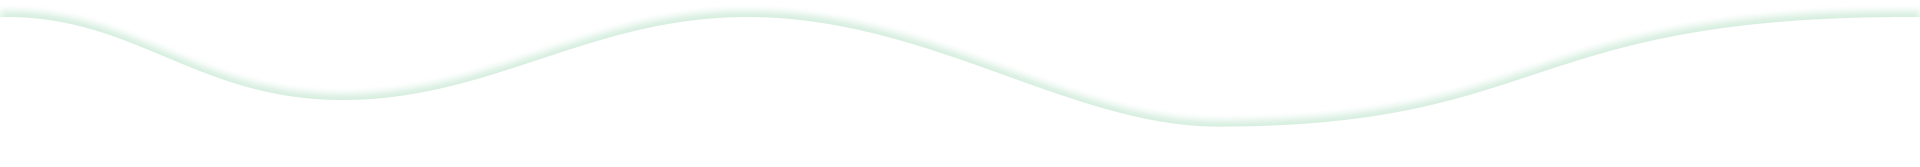
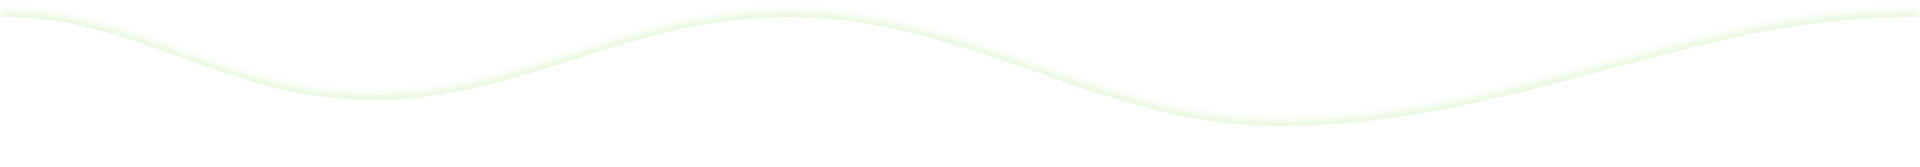
fix responsive styles

diff --git a/dist/styles/main.min.css b/dist/styles/main.min.css
@@ -9419,7 +9419,7 @@ a.plyr__control::before {
 .top-item {
   position: relative;
   background: url("../img/header-bg.png") top;
-  background-repeat-y: no-repeat;
+  background-repeat: repeat-x;
   min-height: 660px;
 }
 
@@ -9429,7 +9429,7 @@ a.plyr__control::before {
   width: 100%;
   position: absolute;
   height: 20px;
-  z-index: 10;
+  z-index: 0;
   bottom: -10px;
 }
 
@@ -9712,7 +9712,11 @@ a.plyr__control::before {
 .our-works {
   margin-top: 50px;
   padding-bottom: 215px;
-  background: url("../img/svg/wave-2.svg") repeat-x bottom;
+  background: url("../img/svg/wave-2.svg") no-repeat bottom;
+  -webkit-background-size: 100% 100%;
+  background-size: 100%;
+  background-position-y: -webkit-calc(100% - 20px);
+  background-position-y: calc(100% - 20px);
 }
 
 .our-works--title {
@@ -14662,29 +14666,25 @@ body {
     font-size: 14px;
   }
 
+  .waveTop,
+  .waveBottom {
+    -webkit-background-size: 100% 100px;
+    background-size: 100% 100px;
+  }
+
+  .waveMiddle {
+    -webkit-background-size: 100% 120px;
+    background-size: 100% 120px;
+  }
+
   .banner-title {
-    font-size: 35px;
+    font-size: 32px;
     line-height: normal;
+    margin-top: 15px;
   }
 
-  .banner .first-position {
-    width: 190px;
-    height: 190px;
-    left: 45px;
-    top: 130px;
-  }
-
-  .banner .second-position {
-    width: 120px;
-    height: 120px;
-    top: 236px;
-    left: -30px;
-  }
-
-  .banner .third-position {
-    width: 90px;
-    height: 90px;
-    top: 308px;
+  .banner-avatar-header {
+    display: none;
   }
 
   .price-info--title {
@@ -14724,8 +14724,6 @@ body {
 
   .our-works {
     padding-bottom: 50px;
-    -webkit-background-size: contain;
-    background-size: contain;
   }
 
   .our-works--title {
@@ -14768,8 +14766,20 @@ body {
     display: none;
   }
 
-  .get-advertising {
-    font-size: 15px;
+  .price-table__price {
+    -webkit-box-flex: 0;
+    -webkit-flex: 0 0 100px;
+    -ms-flex: 0 0 100px;
+    flex: 0 0 100px;
+    margin: 10px;
+  }
+}
+
+@media (max-width: 576px) {
+  .top-item {
+    min-height: 600px;
+    -webkit-background-size: cover;
+    background-size: cover;
   }
 }
 
@@ -14792,9 +14802,27 @@ body {
   }
 }
 
-@media (max-width: 568px) {
+@media (max-width: 575px) {
+  .get-advertising {
+    font-size: 15px;
+  }
+
+  .header-item {
+    padding-top: 20px;
+    padding-bottom: 5px;
+  }
+
   .header-item .info {
-    margin-top: 10px;
+    margin: 10px auto 0;
+    text-align: center;
+  }
+
+  .header-logo {
+    margin: auto;
+  }
+
+  .footer-copy-info {
+    text-align: center;
   }
 }
 

diff --git a/dist/index.html b/dist/index.html
@@ -422,7 +422,7 @@
               <form action="#">
                 <div class="row">
                   <div class="col-md-12 col-lg-6">
-                    <input class="form-control error" type="text" placeholder="Телефон">
+                    <input class="form-control" type="text" placeholder="Телефон">
                     <input class="form-control" type="email" placeholder="E-mail">
                     <input class="form-control" type="email" placeholder="Ім'я або назва компанії">
                   </div>
@@ -445,7 +445,7 @@
               <p>Copyright  &copy; 2019 ТОВ  “Суми медіа сервіс”. All Rights Reserved.</p>
             </div>
             <div class="col-md-4 d-flex justify-content-end">
-              <div class="website-development">Разробка сайта –<img src="./img/beatom-logo.png"></div>
+              <div class="website-development">Разробка сайта –<a href="http://beatom.net/" target="_tblank"><img src="./img/beatom-logo.png"></a></div>
             </div>
           </div>
         </div>
@@ -465,7 +465,7 @@
               <form action="#">
                 <div class="row">
                   <div class="col-md-12 col-lg-6">
-                    <input class="form-control error" type="text" placeholder="Телефон">
+                    <input class="form-control" type="text" placeholder="Телефон">
                     <input class="form-control" type="email" placeholder="E-mail">
                     <input class="form-control" type="email" placeholder="Ім'я або назва компанії">
                   </div>

diff --git a/src/styles/includes/_header.scss b/src/styles/includes/_header.scss
@@ -8,9 +8,6 @@
       line-height: 36px;
       font-family: $font_main;
       text-align: right;
-      @include adapt_to('phone') {
-        margin-top: 10px;
-      }
       @include adapt_to('large-phone') {
         font-size: 18px;
       }
@@ -33,6 +30,21 @@
       width: 286px;
       height: 65px;
       fill: $color_white;
+    }
+  }
+}
+@media (max-width: 575px) {
+  .header{
+    &-item {
+      padding-top: 20px;
+      padding-bottom: 5px;
+      .info {
+        margin: 10px auto 0;
+        text-align: center;
+      }
+    }
+    &-logo {
+      margin: auto;
     }
   }
 }

diff --git a/src/styles/sections/_banner.scss b/src/styles/sections/_banner.scss
@@ -81,25 +81,12 @@
 @include adapt_to('large-phone') {
   .banner{
     &-title {
-      font-size: 35px;
+      font-size: 32px;
       line-height: normal;
+      margin-top: 15px;
     }
-    .first-position {
-      width: 190px;
-      height: 190px;
-      left: 45px;
-      top: 130px;
-    }
-    .second-position {
-      width: 120px;
-      height: 120px;
-      top: 236px;
-      left: -30px;
-    }
-    .third-position {
-      width: 90px;
-      height: 90px;
-      top: 308px;
+    &-avatar-header {
+      display: none;
     }
   }
 }

diff --git a/src/styles/sections/_top-item.scss b/src/styles/sections/_top-item.scss
@@ -1,7 +1,7 @@
 .top-item {
   position: relative;
   background: url('../img/header-bg.png') top;
-  background-repeat-y: no-repeat;
+  background-repeat: repeat-x;
   min-height: 660px;
   &::after {
     content: '';
@@ -9,7 +9,11 @@
     width: 100%;
     position: absolute;
     height: 20px;
-    z-index: 10;
+    z-index: 0;
     bottom: -10px;
+  }
+  @media (max-width: 576px) {
+    min-height: 600px;
+    background-size: cover;
   }
 }

diff --git a/src/styles/sections/_our-works.scss b/src/styles/sections/_our-works.scss
@@ -8,10 +8,11 @@
   &s {
     margin-top: 50px;
     padding-bottom: 215px;
-    background: url('../img/svg/wave-2.svg') repeat-x bottom;
+    background: url('../img/svg/wave-2.svg') no-repeat bottom;
+    background-size: 100%;
+    background-position-y: calc(100% - 20px);
     @include adapt_to('large-phone') {
       padding-bottom: 50px;
-      background-size: contain;
     }
     &--title {
       font-size: 40px;

diff --git a/src/styles/sections/_price-table.scss b/src/styles/sections/_price-table.scss
@@ -41,6 +41,10 @@
     line-height: 22px;
     color: $color_txt2;
     font-family: $font_main;
+    @media (max-width: 767px) {
+      flex: 0 0 100px;
+      margin: 10px;
+    }
     .price {
       color: $color_txt;
       font-size: 20px;

diff --git a/src/styles/components/_waves.scss b/src/styles/components/_waves.scss
@@ -68,3 +68,12 @@
 .waveBottom {
   background-size: 50% 100px;
 }
+
+@include adapt_to('large-phone') {
+  .waveTop, .waveBottom {
+    background-size: 100% 100px;
+  }
+  .waveMiddle {
+    background-size: 100% 120px;
+  }
+}

diff --git a/src/styles/includes/_footer.scss b/src/styles/includes/_footer.scss
@@ -52,6 +52,9 @@
     font-size: 16px;
     line-height: 22px;
     color: $color_txt2;
+    @media (max-width: 575px) {
+      text-align: center;
+    }
     p {
       margin: 0;
       @include adapt_to('large-phone') {

diff --git a/src/styles/utils/_extends.scss b/src/styles/utils/_extends.scss
@@ -20,7 +20,7 @@
     color: $color_btn;
     text-decoration: none;
   }
-  @media (max-width: 767px) {
+  @media (max-width: 575px) {
     font-size: 15px;
   }
 }
